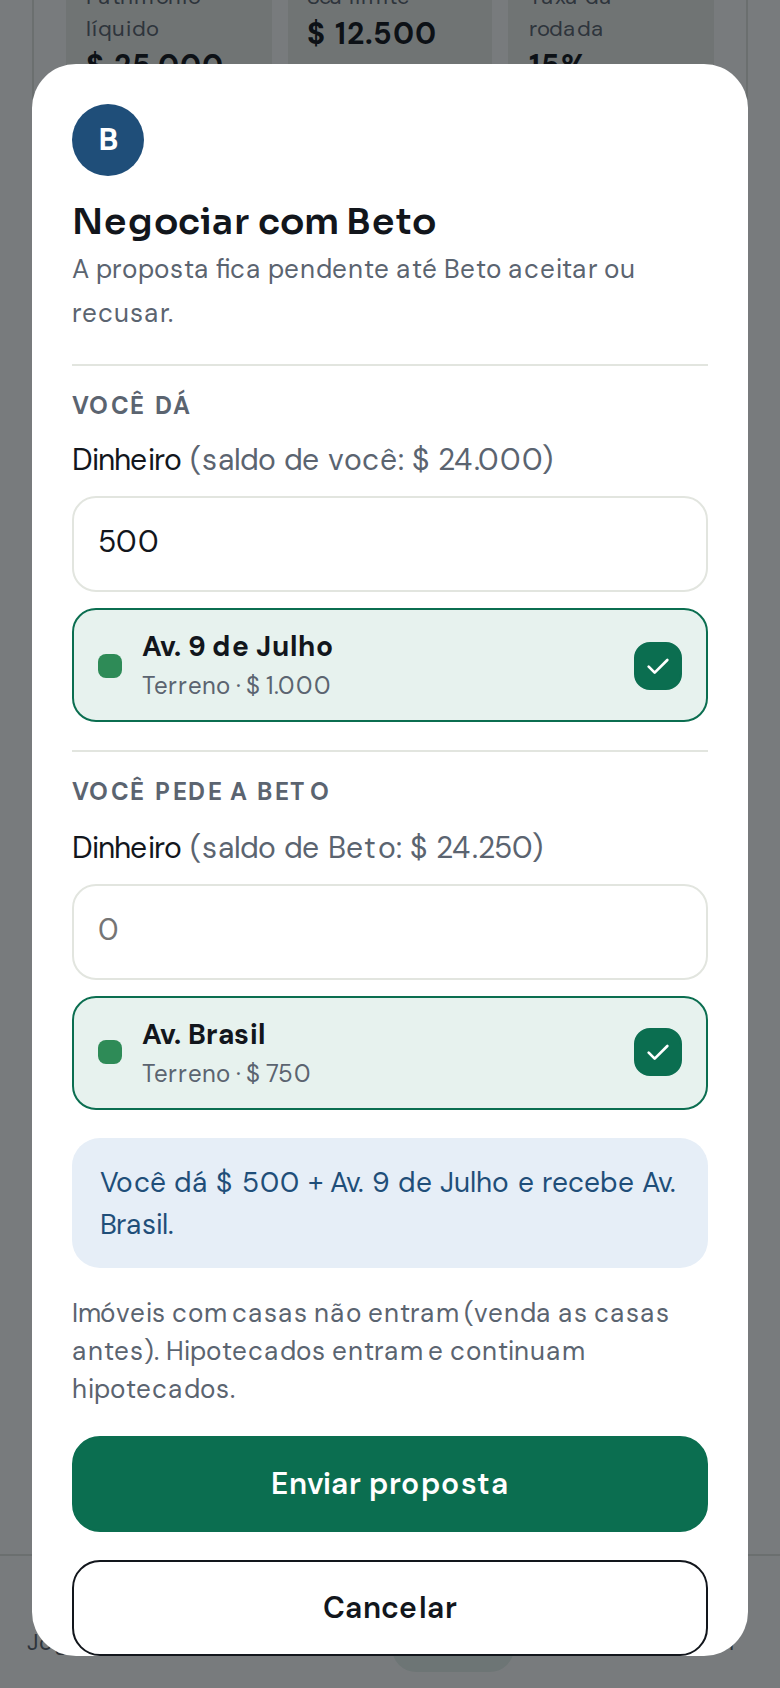
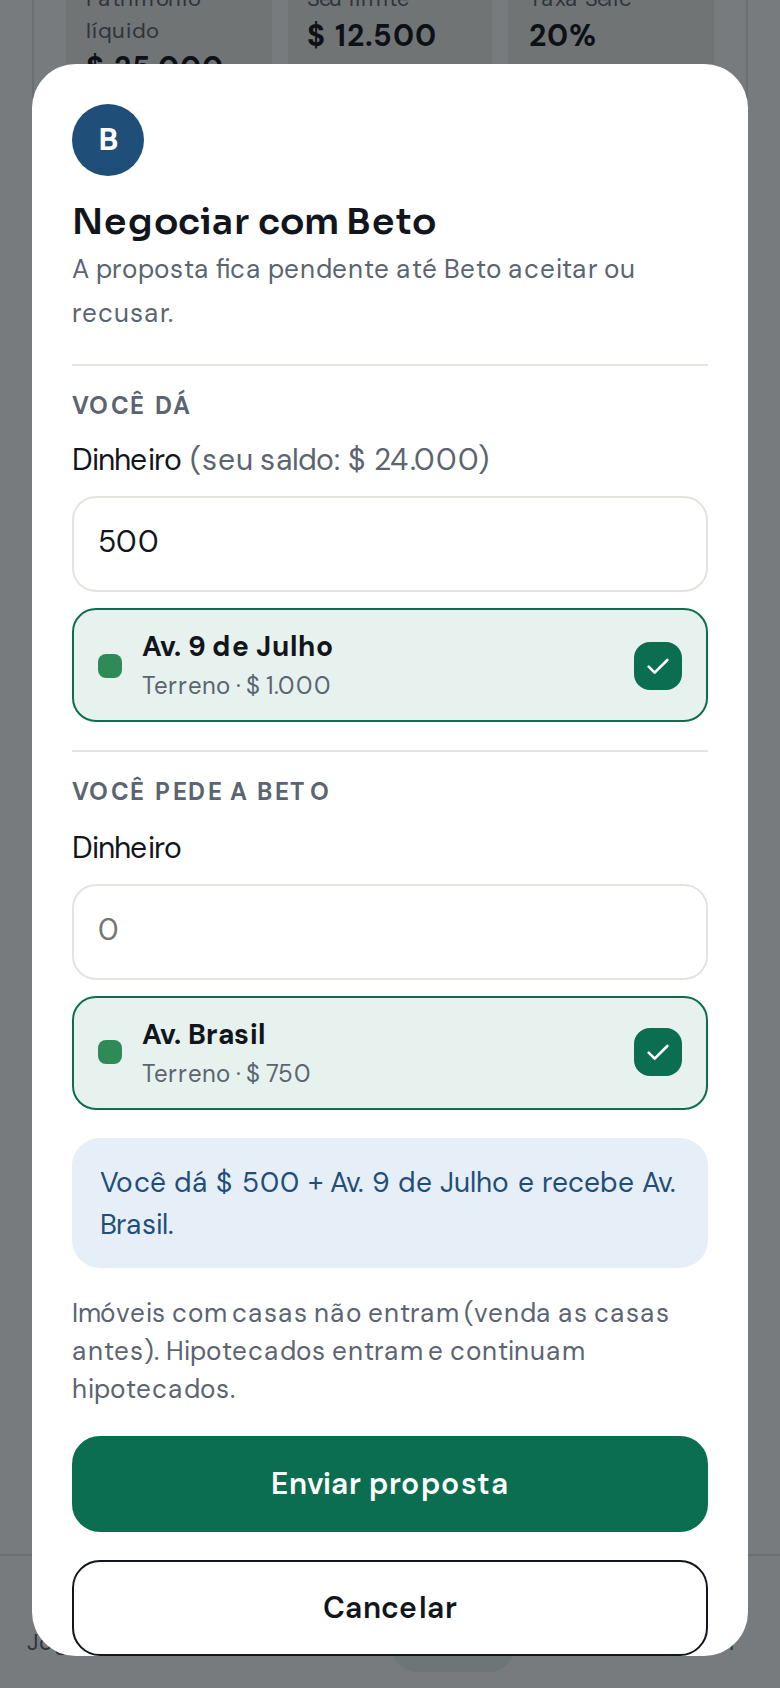
Esconde o saldo dos outros jogadores na aba Banco e na negociação
A lista do Pix e o formulário de proposta deixam de mostrar o saldo do outro
jogador. Ao propor, o dinheiro do outro não é checado (isso revelaria o saldo);
a falta de dinheiro aparece só para quem tenta aceitar.

Claude-Session: https://claude.ai/code/session_017x33phUJiS169BAouLAq1A

diff --git a/components/TradeViews.tsx b/components/TradeViews.tsx
@@ -57,7 +57,7 @@ function TradeCard({ ui, t }: { ui: GameUi; t: Trade }) {
   const [busy, setBusy] = useState(false);
   const incoming = t.to === me;
   const other = pname(state, incoming ? t.from : t.to);
-  const problem = tradeProblem(state, t.from, t.to, t.give, t.get);
+  const problem = tradeProblem(state, t.from, t.to, t.give, t.get, incoming ? undefined : t.to);
   const youGet = incoming ? t.give : t.get;
   const youGive = incoming ? t.get : t.give;
   const act = async (fn: () => Promise<unknown>) => {
@@ -122,7 +122,7 @@ function TradeCard({ ui, t }: { ui: GameUi; t: Trade }) {
 }
 
 /** Imóveis e cotas de um jogador para escolher numa proposta. */
-function AssetPicker({ state, owner, side, onChange, who }: { state: GameState; owner: string; side: TradeSide; onChange: (s: TradeSide) => void; who: string }) {
+function AssetPicker({ state, owner, me, side, onChange }: { state: GameState; owner: string; me: string; side: TradeSide; onChange: (s: TradeSide) => void }) {
   const p = findPlayer(state, owner)!;
   const props = Object.keys(state.props)
     .map(Number)
@@ -135,7 +135,7 @@ function AssetPicker({ state, owner, side, onChange, who }: { state: GameState; 
     <div className="stack" style={{ gap: 8 }}>
       <div className="field">
         <label htmlFor={`m-${owner}`}>
-          Dinheiro <span className="muted">(saldo de {who}: {money(p.balance)})</span>
+          Dinheiro{owner === me && <span className="muted"> (seu saldo: {money(p.balance)})</span>}
         </label>
         <input
           id={`m-${owner}`}
@@ -146,7 +146,7 @@ function AssetPicker({ state, owner, side, onChange, who }: { state: GameState; 
           onChange={(e) => onChange({ ...side, money: Math.max(0, parseInt(e.target.value.replace(/\D/g, ''), 10) || 0) })}
         />
       </div>
-      {props.length === 0 && comps.length === 0 && <p className="muted" style={{ margin: 0, fontSize: 13 }}>{who === 'você' ? 'Você' : who} não tem imóveis nem cotas.</p>}
+      {props.length === 0 && comps.length === 0 && <p className="muted" style={{ margin: 0, fontSize: 13 }}>{owner === me ? 'Você' : pname(state, owner)} não tem imóveis nem cotas.</p>}
       {props.map((i) => {
         const s = street(i);
         const block = tradeBlock(state, i, owner);
@@ -203,7 +203,7 @@ export function TradeBuilder({ ui, partner, onClose }: { ui: GameUi; partner: st
   const [busy, setBusy] = useState(false);
   const other = findPlayer(state, partner);
   if (!other) return null;
-  const problem = tradeProblem(state, me, partner, give, get);
+  const problem = tradeProblem(state, me, partner, give, get, partner);
   return (
     <Sheet label={`Negociar com ${other.name}`}>
       <div className="row" style={{ gap: 10 }}>
@@ -217,11 +217,11 @@ export function TradeBuilder({ ui, partner, onClose }: { ui: GameUi; partner: st
       </div>
       <div className="trade-block">
         <span className="label">Você dá</span>
-        <AssetPicker state={state} owner={me} side={give} onChange={setGive} who="você" />
+        <AssetPicker state={state} owner={me} me={me} side={give} onChange={setGive} />
       </div>
       <div className="trade-block">
         <span className="label">Você pede a {other.name}</span>
-        <AssetPicker state={state} owner={partner} side={get} onChange={setGet} who={other.name} />
+        <AssetPicker state={state} owner={partner} me={me} side={get} onChange={setGet} />
       </div>
       {!problem && (
         <div className="banner info" data-testid="trade-summary">

diff --git a/lib/game/rules.ts b/lib/game/rules.ts
@@ -734,10 +734,10 @@ export function tradeBlock(st: GameState, i: number, owner: string): string | nu
   return null;
 }
 
-function sideProblem(st: GameState, side: TradeSide, owner: string): string | null {
+function sideProblem(st: GameState, side: TradeSide, owner: string, checkMoney = true): string | null {
   const who = pname(st, owner);
   if (!Number.isInteger(side.money) || side.money < 0) return 'Valor em dinheiro inválido.';
-  if ((findPlayer(st, owner)?.balance ?? 0) < side.money) return `${who} não tem ${money(side.money)} em dinheiro.`;
+  if (checkMoney && (findPlayer(st, owner)?.balance ?? 0) < side.money) return `${who} não tem ${money(side.money)} em dinheiro.`;
   if (new Set(side.props).size !== side.props.length) return 'Imóvel repetido na proposta.';
   for (const i of side.props) {
     const b = tradeBlock(st, i, owner);
@@ -753,12 +753,16 @@ function sideProblem(st: GameState, side: TradeSide, owner: string): string | nu
 }
 
 /** Valida uma proposta contra o estado atual (null = válida). Usada ao propor, ao mostrar e ao aceitar. */
-export function tradeProblem(st: GameState, from: string, to: string, give: TradeSide, get: TradeSide): string | null {
+/**
+ * `hideMoneyOf`: jogador cujo saldo não é checado (o saldo dos outros é privado; a falta de dinheiro
+ * só aparece para quem aceita, na hora de aceitar).
+ */
+export function tradeProblem(st: GameState, from: string, to: string, give: TradeSide, get: TradeSide, hideMoneyOf?: string): string | null {
   const a = findPlayer(st, from);
   const b = findPlayer(st, to);
   if (!a || a.out || !b || b.out || from === to) return 'Escolha outro jogador que ainda está no jogo.';
   if (sideEmpty(give) && sideEmpty(get)) return 'Monte a proposta: o que você dá e o que pede.';
-  return sideProblem(st, give, from) || sideProblem(st, get, to);
+  return sideProblem(st, give, from, hideMoneyOf !== from) || sideProblem(st, get, to, hideMoneyOf !== to);
 }
 
 /** Resumo de um lado, ex.: "$ 1.000 + Av. Paulista + 2 cotas da Banco Aurora" (imóvel negociado é sempre terreno, sem casas). */
@@ -1825,7 +1829,7 @@ export function applyAction(state0: GameState, action: Action, ctx: ActionContex
     }
     case 'proposeTrade': {
       const to = action.to;
-      const problem = tradeProblem(st, actor, to, action.give, action.get);
+      const problem = tradeProblem(st, actor, to, action.give, action.get, to);
       need(!problem, problem!);
       need(!tradesOf(st).some((t) => (t.from === actor && t.to === to) || (t.from === to && t.to === actor)), `Já existe uma proposta entre você e ${pname(st, to)}. Responda ou cancele antes.`);
       st.tradeCount = (st.tradeCount || 0) + 1;

diff --git a/lib/game/rules.test.ts b/lib/game/rules.test.ts
@@ -537,7 +537,9 @@ describe('negociação entre jogadores', () => {
     expect(() => prop(side({ props: [PAULISTA] }), side())).toThrow(/não é mais de Ana/);
     expect(() => prop(side(), side({ props: [FARIA_LIMA] }))).toThrow(/não é mais de Beto/);
     expect(() => prop(side({ money: 30000 }), side({ props: [PAULISTA] }))).toThrow(/Ana não tem/);
-    expect(() => prop(side(), side({ money: 30000 }))).toThrow(/Beto não tem/);
+    // o saldo de Beto é privado: a proposta sai, e a falta de dinheiro só aparece quando ele tenta aceitar
+    const asked = prop(side(), side({ money: 30000 }));
+    expect(() => act(asked, 'beto', { type: 'acceptTrade', id: trades(asked)[0].id })).toThrow(/Beto não tem/);
     expect(() => prop(side({ shares: { [BANCO_AURORA]: 2 } }), side())).toThrow(/2 cotas/);
     expect(() => prop(side(), side())).toThrow(/Monte a proposta/);
     expect(() => prop(side({ money: -5 }), side())).toThrow(/inválido/);

diff --git a/components/BankView.tsx b/components/BankView.tsx
@@ -546,7 +546,6 @@ function TradeCardList({ ui, onTrade }: { ui: GameUi; onTrade: (pid: string) => 
                 <Avatar name={x.name} color={x.color} />
                 <div className="main">
                   <b>{x.name}</b>
-                  <span className="num">{money(x.balance)}</span>
                 </div>
               </div>
               <button className="btn small" disabled={busy || !!state.winner} onClick={() => onTrade(x.id)}>
